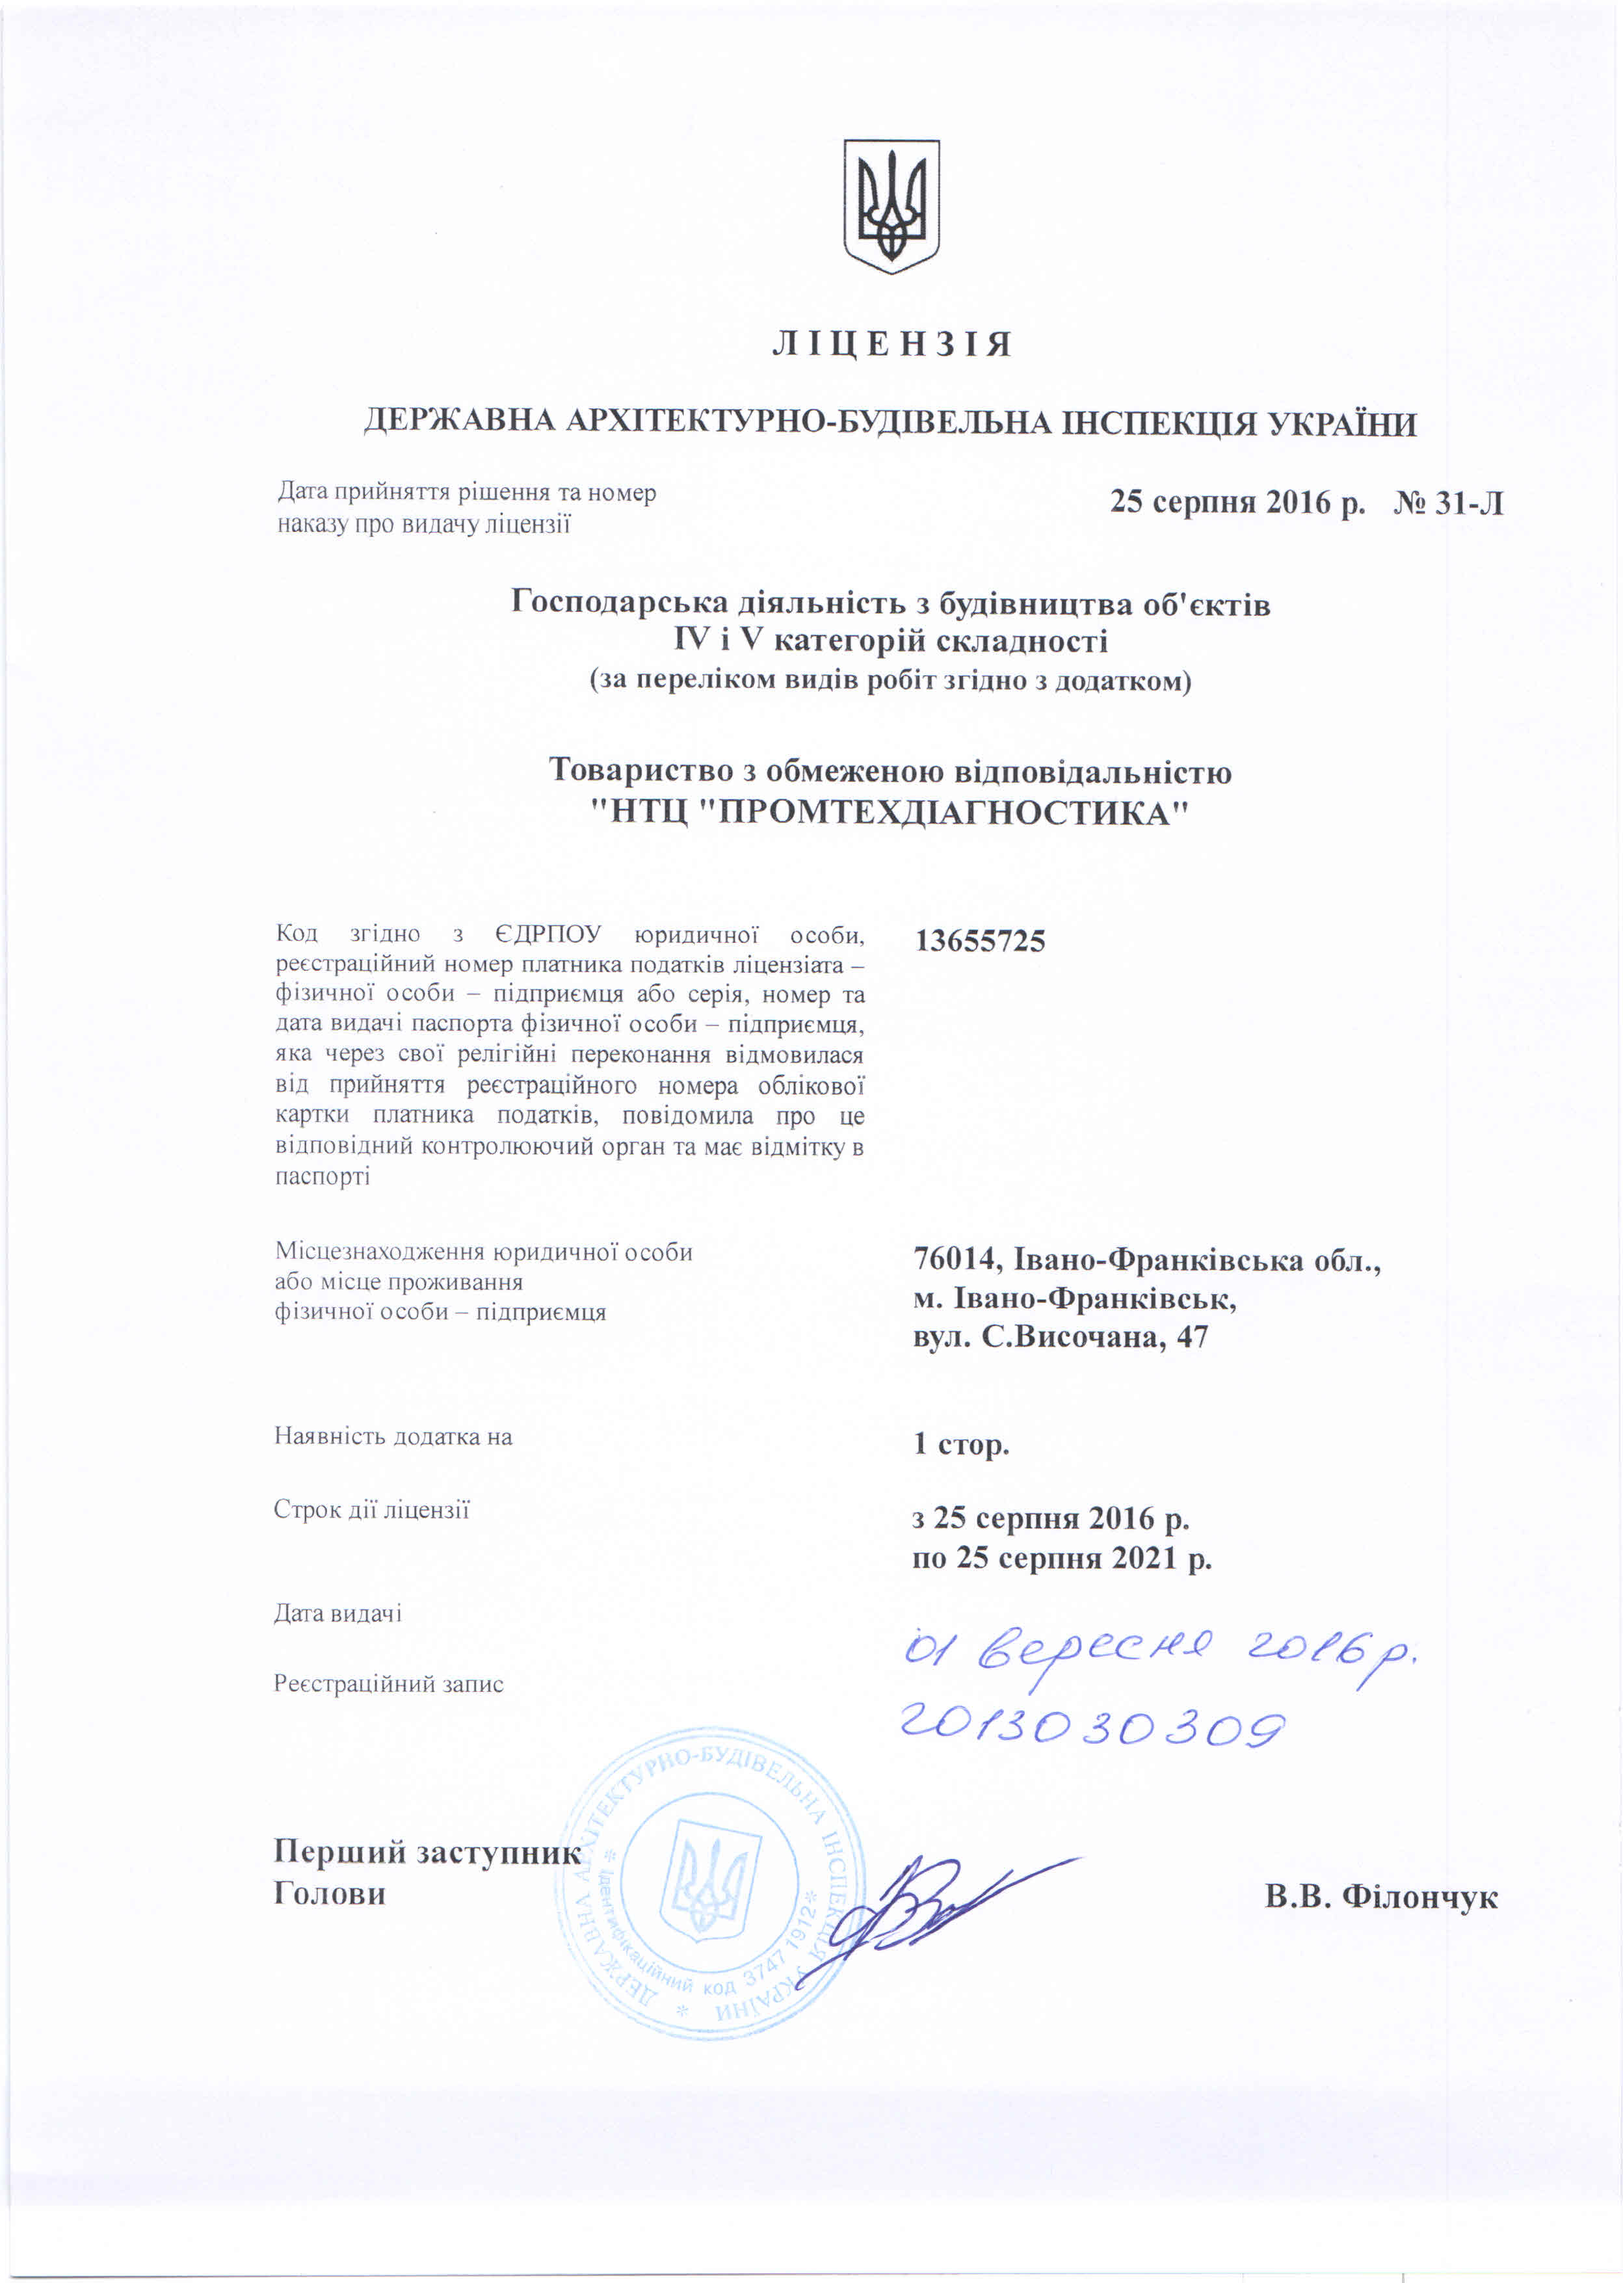
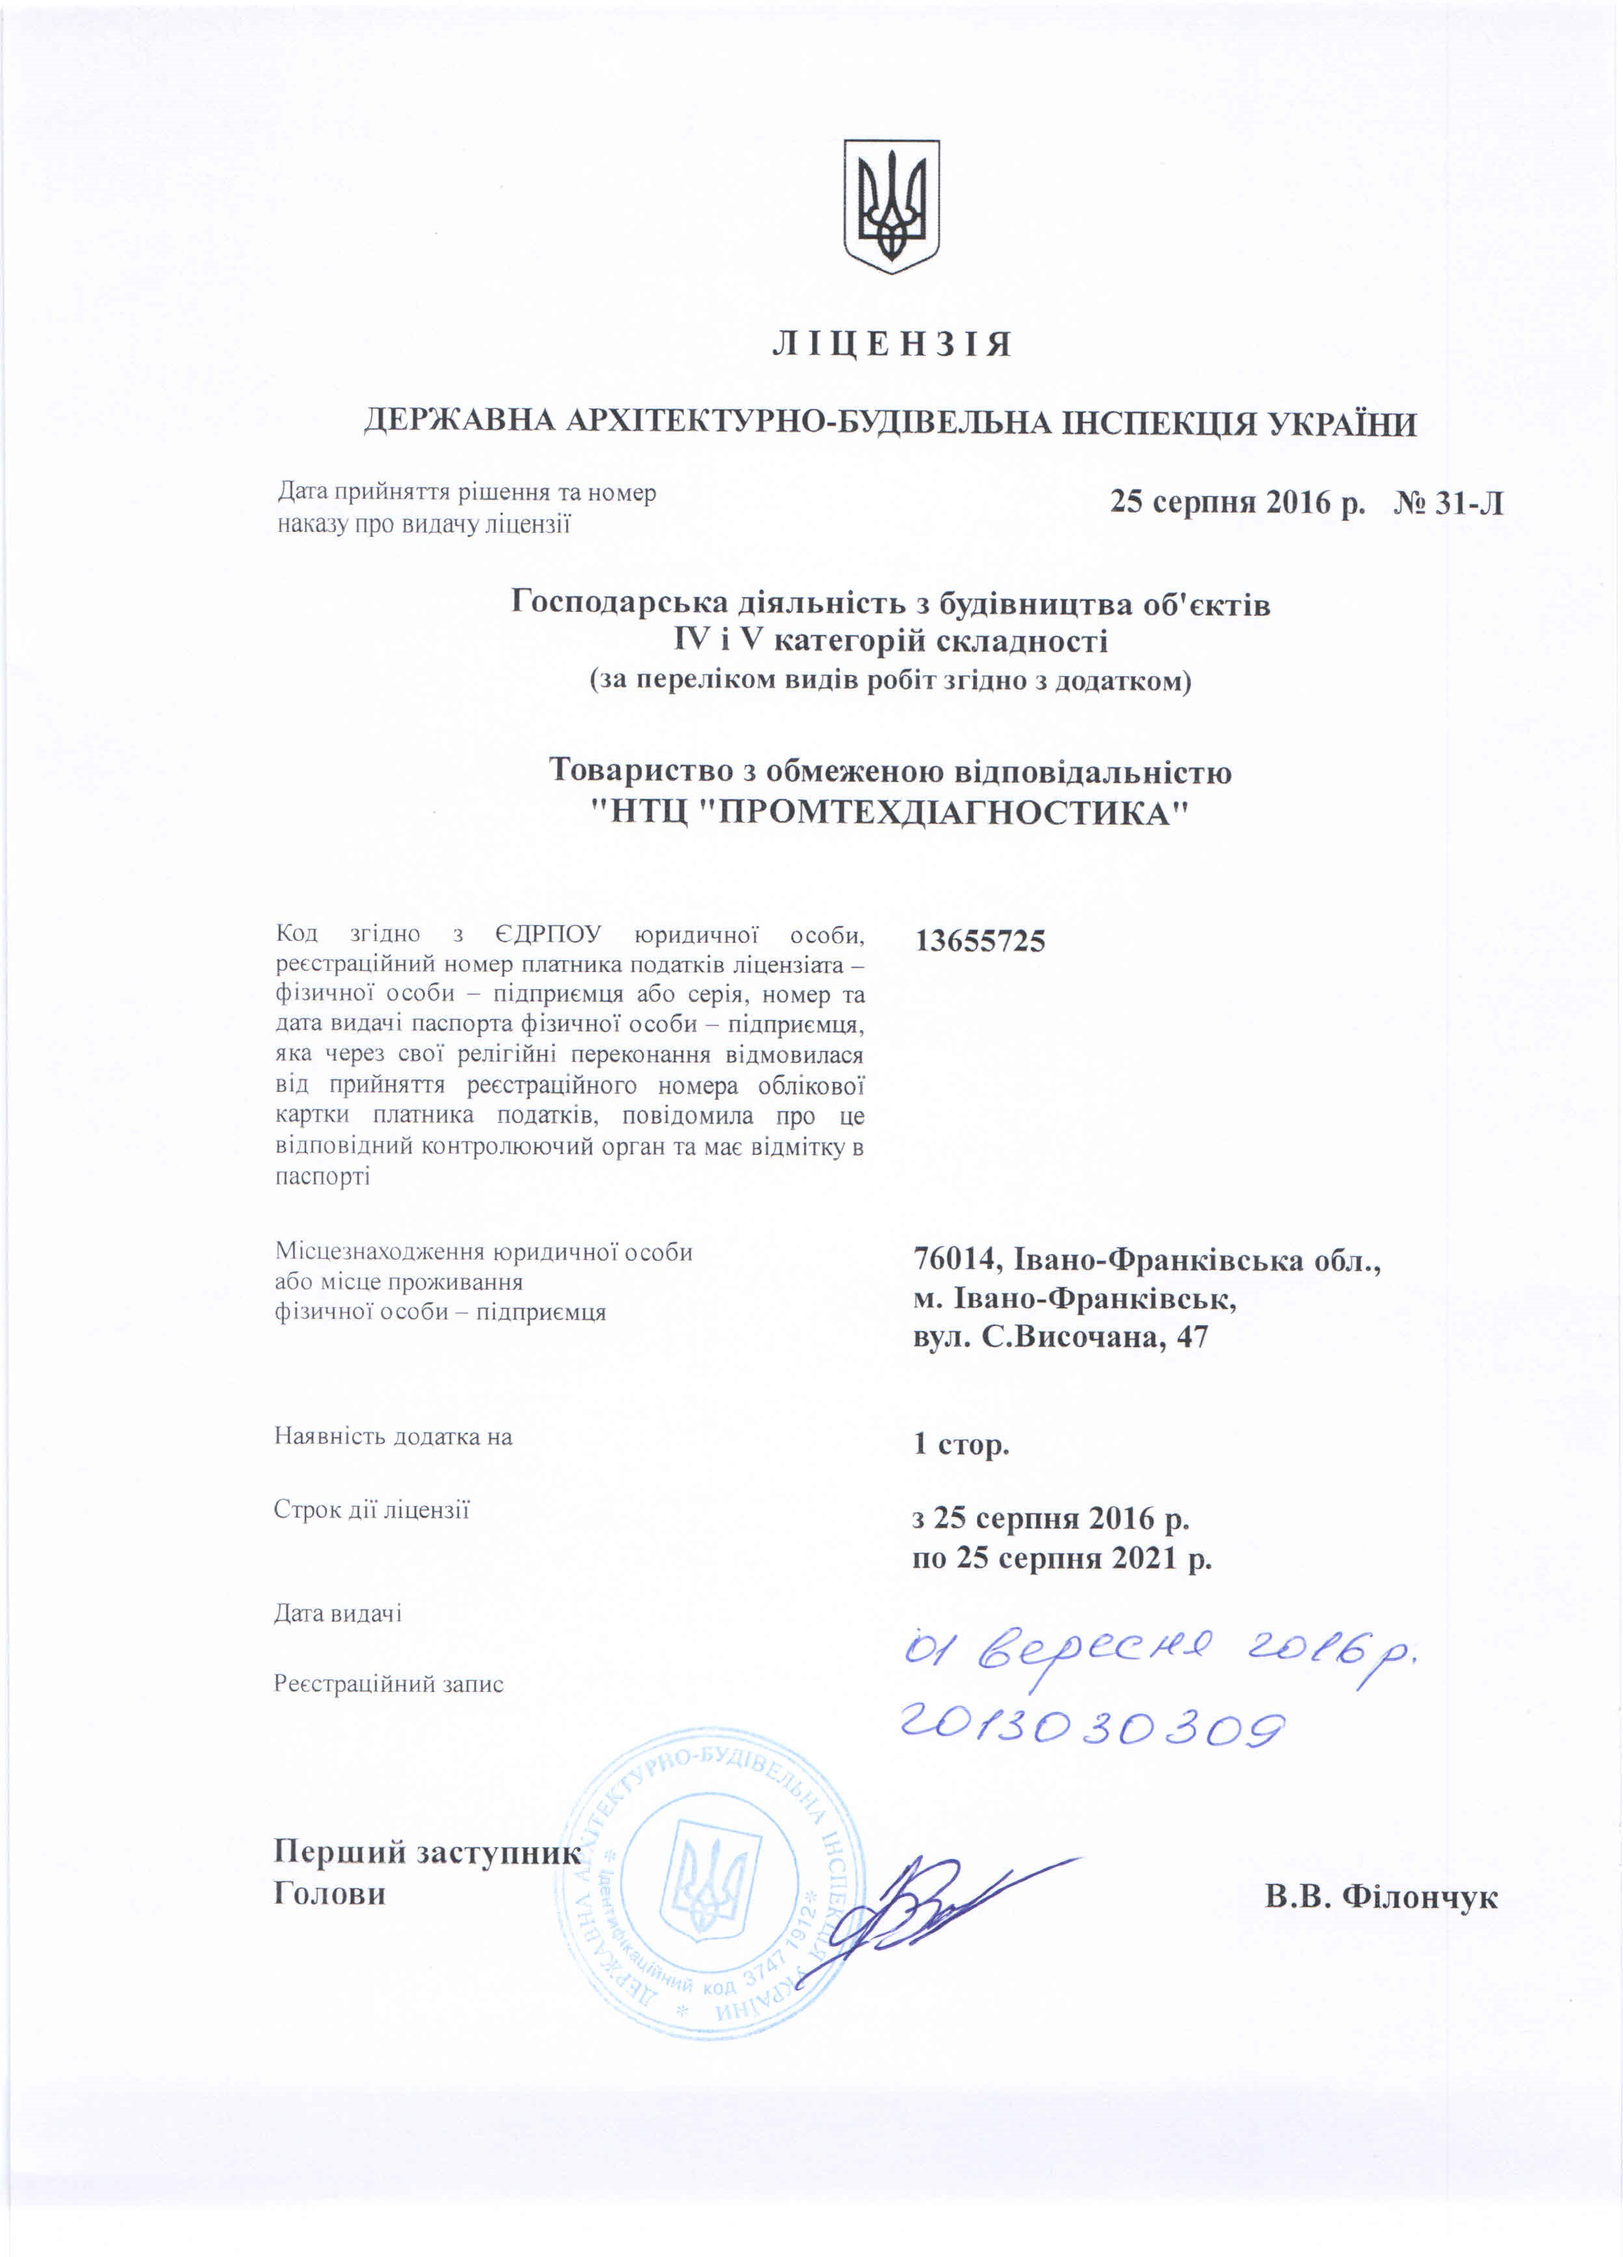
new arrow added

diff --git a/index.html b/index.html
@@ -68,7 +68,7 @@
               <br>ПРОМТЕХДІАГНОСТИКА</h1>
             <p class="header-subtitle">Товариство з обмеженою відповідальністю</p>
             <a href="#anker" class="header-link">
-              <img src="/img/Animation-1751924648819.gif" alt="scroll down" class="header-icon" />
+              <img src="/img/chevron.png" alt="scroll down" class="header-icon" />
             </a>
           </div>
         </div>
@@ -150,8 +150,7 @@
               </div>
 
               <div class="feature-content">
-                <h4 class="feature-title">Наші працівники</h4>
-                <p class="feature-description">
+                <h4 class="feature-title">Професіоналізм</h4><p class="feature-description">
                   Наша команда досвідчених професіоналів, які постійно підвищують кваліфікацію
                 </p>
                 <div class="read-more-btn">

diff --git a/styles/style.css b/styles/style.css
@@ -155,13 +155,26 @@ header,
 
 .header-icon {
   display: block;
+  margin-top: 10px;
   width: 10vw;
   height: 10vw;
-  max-width: 100px;
-  max-height: 100px;
+  max-width: 50px;
+  max-height: 50px;
+
+  animation: bounce 2s infinite;
 }
 
-
+@keyframes bounce {
+  0%, 20%, 50%, 80%, 100% {
+    transform: translateY(0);
+  }
+  40% {
+    transform: translateY(-12px);
+  }
+  60% {
+    transform: translateY(-6px);
+  }
+}
 
 .cta-button {
   border: solid 2px white;
